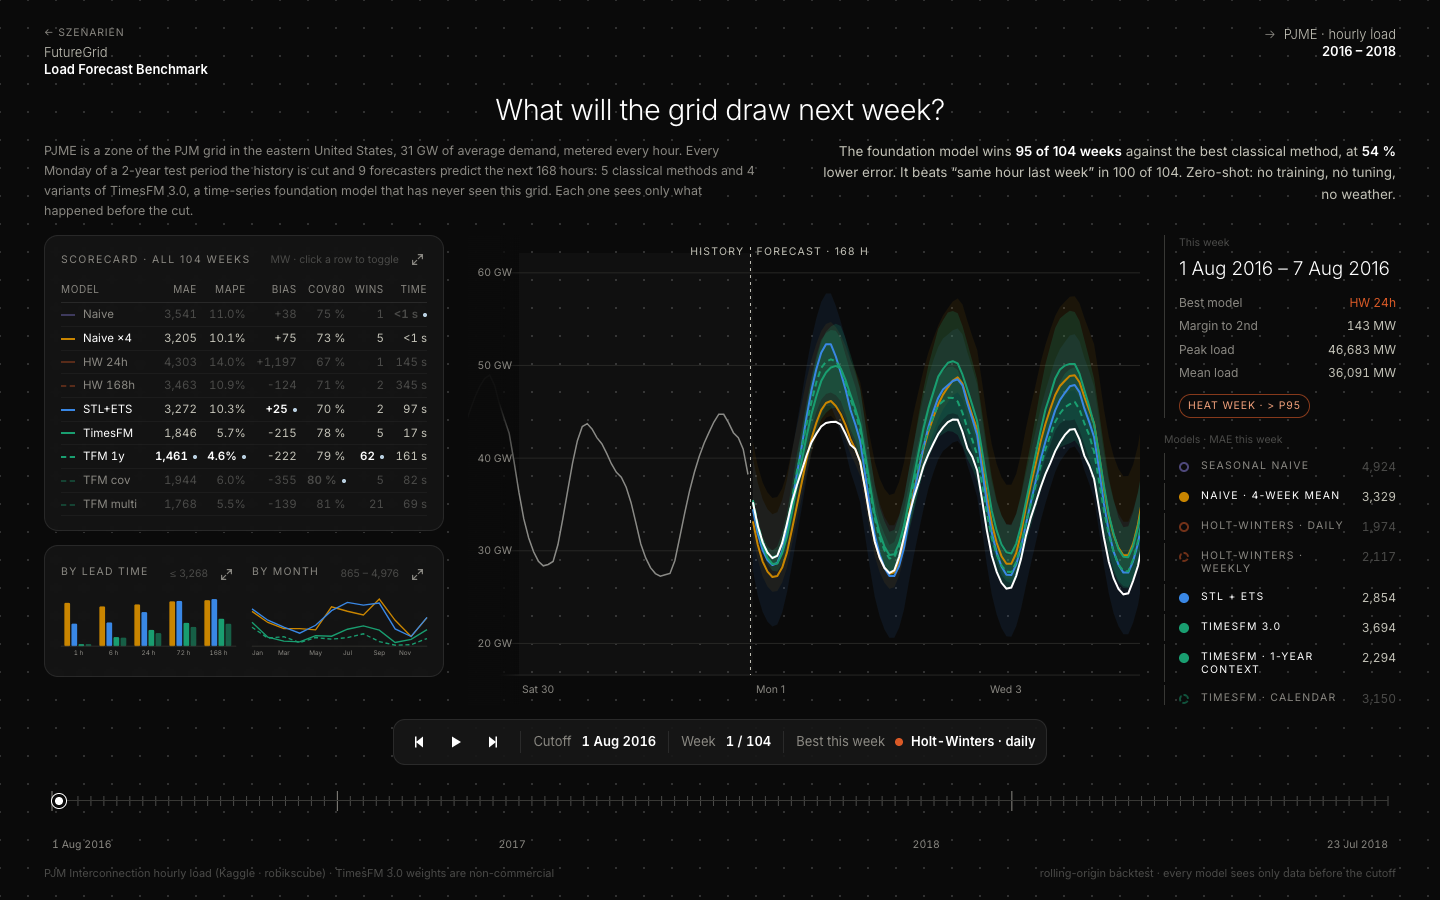
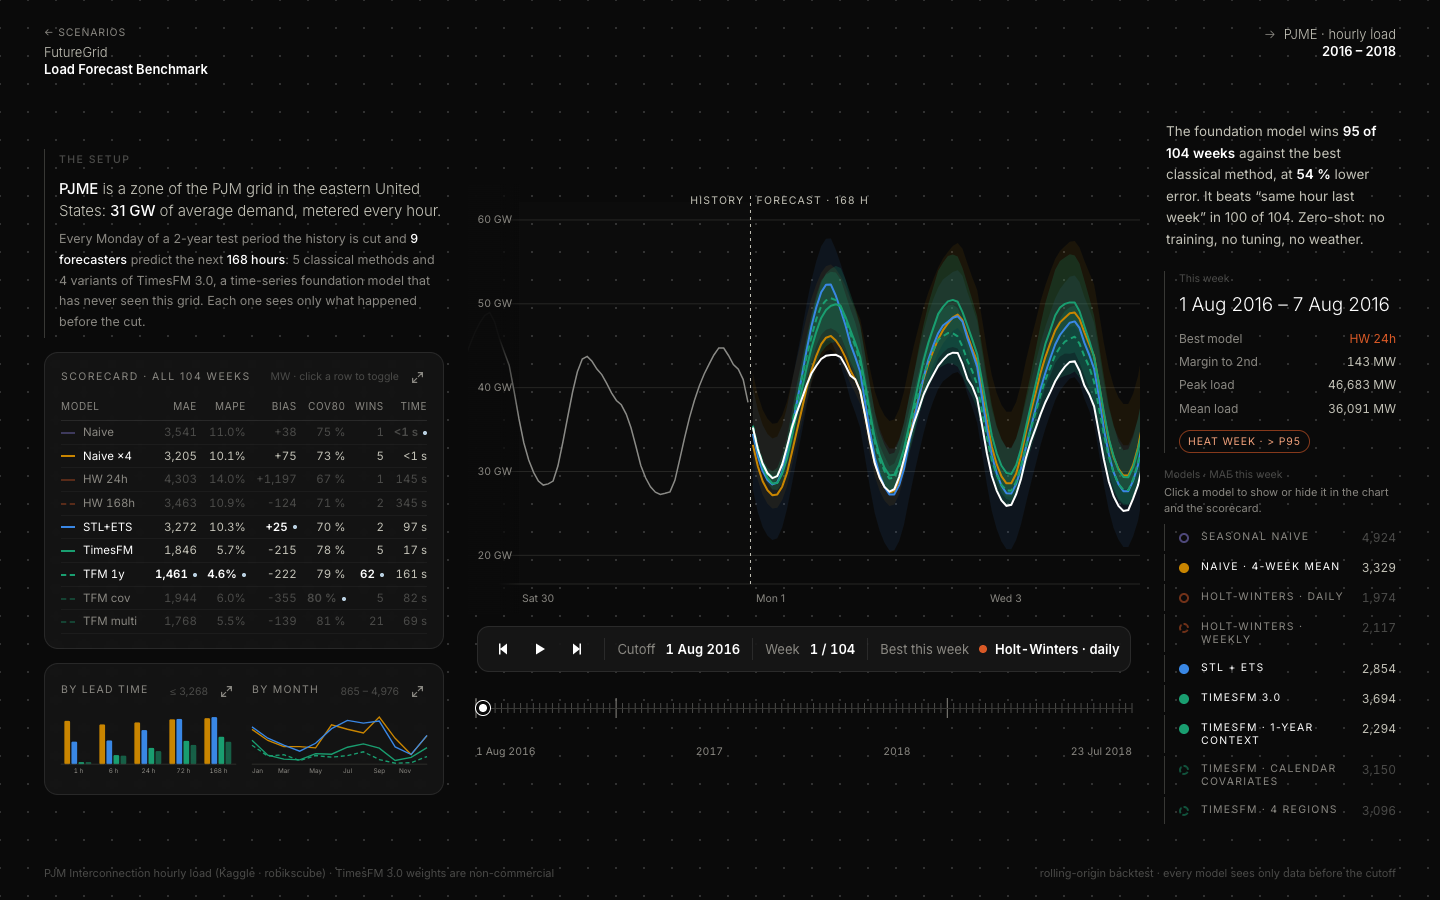
feat: update UI components and styles for improved layout and readability

diff --git a/src/strom/components/BigCharts.tsx b/src/strom/components/BigCharts.tsx
@@ -135,20 +135,86 @@ function BigLine({ series, xLabels, xTickEvery, hoverLabel, yLabel }: BigLinePro
   );
 }
 
-/** MAE for every lead hour 1..168, one line per visible model. */
+/** MAE at the reported lead times (1, 6, 24, 72, 168 h) as grouped bars - the big version of the
+ * mini chart, one bar per visible model and lead, value on top, legend at the right. */
 export function LeadChart({ data, visible }: { data: Backtest; visible: string[] }) {
+  const [hover, setHover] = useState<{ lead: number; model: string } | null>(null);
   const models = visible.filter((m) => data.byLead[m]);
-  const H = data.meta.horizon;
-  const series = models.map((m) => ({ name: m, values: data.byLead[m].slice(0, H) }));
-  const labels = Array.from({ length: H }, (_, i) => `${i + 1} h`);
+  const leads = data.meta.leadsReported;
+  const vals = leads.map((l) => models.map((m) => data.byLead[m][l - 1] ?? 0));
+  const max = Math.max(...vals.flat(), 1) * 1.12;
+  const y = (v: number) => PAD.top + innerH - (v / max) * innerH;
+  const groupW = innerW / leads.length;
+  const gap = 4;
+  const barW = Math.max(6, Math.min(34, (groupW * 0.72 - gap * (models.length - 1)) / models.length));
+  const groupInner = models.length * barW + (models.length - 1) * gap;
+  const yt = ticks(max);
+
   return (
-    <BigLine
-      series={series}
-      xLabels={labels}
-      xTickEvery={24}
-      hoverLabel={(i) => `Lead ${i + 1} h · day ${Math.floor(i / 24) + 1}`}
-      yLabel="MAE (MW) by lead hour"
-    />
+    <div className="bigChart">
+      <svg viewBox={`0 0 ${W} ${H}`} role="img" aria-label="MAE (MW) by lead time" onMouseLeave={() => setHover(null)}>
+        <g className="axis">
+          {yt.map((v) => (
+            <g key={v}>
+              <line x1={PAD.left} x2={PAD.left + innerW} y1={y(v)} y2={y(v)} />
+              <text x={PAD.left - 10} y={y(v) + 4} textAnchor="end">
+                {fmtMW(v)}
+              </text>
+            </g>
+          ))}
+          <line className="baseline" x1={PAD.left} x2={PAD.left + innerW} y1={PAD.top + innerH} y2={PAD.top + innerH} />
+          {leads.map((l, gi) => (
+            <text key={l} x={PAD.left + gi * groupW + groupW / 2} y={H - 16} textAnchor="middle">
+              {l < 24 ? `${l} h` : `${l} h · day ${l / 24}`}
+            </text>
+          ))}
+          <text x={PAD.left} y={PAD.top - 6} className="axisTitle">
+            MAE (MW) by lead time
+          </text>
+        </g>
+        {leads.map((l, gi) =>
+          models.map((m, mi) => {
+            const v = vals[gi][mi];
+            const st = styleOf(m);
+            const x0 = PAD.left + gi * groupW + (groupW - groupInner) / 2 + mi * (barW + gap);
+            const active = hover && hover.lead === l && hover.model === m;
+            return (
+              <g key={`${l}-${m}`} onMouseEnter={() => setHover({ lead: l, model: m })}>
+                <rect x={x0} y={y(v)} width={barW} height={PAD.top + innerH - y(v)} rx={3} fill={st.color} opacity={st.dash ? 0.55 : active ? 1 : 0.9} />
+                {(active || models.length <= 5) && (
+                  <text x={x0 + barW / 2} y={y(v) - 6} textAnchor="middle" className="barLabel" fill={st.color}>
+                    {fmtMW(v)}
+                  </text>
+                )}
+              </g>
+            );
+          }),
+        )}
+        {models.map((m, i) => {
+          const st = styleOf(m);
+          return (
+            <g key={m} transform={`translate(${PAD.left + innerW + 14}, ${PAD.top + 8 + i * 20})`}>
+              <rect x={0} y={-6} width={12} height={12} rx={2} fill={st.color} opacity={st.dash ? 0.55 : 1} />
+              <text x={18} y={4} className="endLabel" fill={st.color}>
+                {st.label}
+              </text>
+            </g>
+          );
+        })}
+      </svg>
+      {hover && (
+        <div className="tooltip" style={{ right: 20, top: 30 }}>
+          <div className="when">Lead {hover.lead} h</div>
+          <div className="line">
+            <span className="nm">
+              <i className="swatch" style={{ color: styleOf(hover.model).color }} />
+              {styleOf(hover.model).label}
+            </span>
+            <span>{fmtMW(data.byLead[hover.model][hover.lead - 1] ?? 0)} MW</span>
+          </div>
+        </div>
+      )}
+    </div>
   );
 }
 

diff --git a/src/strom/App.tsx b/src/strom/App.tsx
@@ -81,26 +81,20 @@ function Benchmark({ data }: { data: Backtest }) {
 
   return (
     <Frame region={`${data.meta.region} · hourly load`} range={years}>
-      <div className="headline">
-        <h1>{head.title}</h1>
-        <div className="headlineCols">
-          <p className="lead">{head.lead}</p>
-          <p className="verdict">{head.verdict}</p>
-        </div>
-      </div>
-
       <div className="main">
         <div className="stack">
+          <p className="lead">{head.lead}</p>
           <Scorecard data={data} models={models} visible={visible} onToggle={toggle} />
           <div className="panel">
             <MiniBars data={data} visible={visible} />
           </div>
         </div>
-        <Chart record={record} visible={visible} />
-        <WeekPanel data={data} record={record} models={models} visible={visible} onToggle={toggle} />
+        <div className="centerCol">
+          <Chart record={record} visible={visible} />
+          <BacktestSlider cutoffs={data.cutoffs} index={index} playing={playing} winner={winner} onChange={onChange} onPlay={onPlay} />
+        </div>
+        <WeekPanel data={data} record={record} models={models} visible={visible} onToggle={toggle} intro={head.verdict} />
       </div>
-
-      <BacktestSlider cutoffs={data.cutoffs} index={index} playing={playing} winner={winner} onChange={onChange} onPlay={onPlay} />
     </Frame>
   );
 }
@@ -121,11 +115,17 @@ function headline(
 
   const lead = (
     <>
-      {meta.region} is a zone of the PJM grid in the eastern United States, {fmtGW(meta.truthMean)} of average
-      demand, metered every hour. Every {weekdayName(first)} of a {years}-year test period the history is cut and{' '}
-      {models.length} forecasters predict the next {meta.horizon} hours: {classics.length} classical methods and{' '}
-      {tfms.length} variants of TimesFM 3.0, a time-series foundation model that has never seen this grid. Each one
-      sees only what happened before the cut.
+      <span className="leadKicker">The setup</span>
+      <span className="leadFirst">
+        <b>{meta.region}</b> is a zone of the PJM grid in the eastern United States: <b>{fmtGW(meta.truthMean)}</b> of
+        average demand, metered every hour.
+      </span>
+      <span className="leadRest">
+        Every {weekdayName(first)} of a {years}-year test period the history is cut and <b>{models.length} forecasters</b>{' '}
+        predict the next <b>{meta.horizon} hours</b>: {classics.length} classical methods and {tfms.length} variants of
+        TimesFM 3.0, a time-series foundation model that has never seen this grid. Each one sees only what happened
+        before the cut.
+      </span>
     </>
   );
 

diff --git a/src/strom/styles/global.css b/src/strom/styles/global.css
@@ -125,23 +125,57 @@ button {
   margin-top: 14px;
 }
 
-.headline .lead {
-  text-align: left;
+/* the two intro paragraphs sit in the side columns, next to the chart */
+.main .lead {
+  display: flex;
+  flex-direction: column;
+  gap: 8px;
   color: var(--muted);
   font-size: 12.5px;
-  line-height: 1.6;
+  line-height: 1.65;
+  padding: 2px 2px 6px 14px;
+  border-left: 1px solid var(--axis);
 }
 
-.headline .verdict {
-  text-align: right;
+.main .lead .leadKicker {
+  font-size: 10.5px;
+  font-weight: 500;
+  letter-spacing: 0.14em;
+  text-transform: uppercase;
+  color: var(--faint);
+  margin-bottom: 2px;
+}
+
+.main .lead .leadFirst {
+  color: var(--text-2);
+  font-size: 15px;
+  font-weight: 300;
+  line-height: 1.45;
+  letter-spacing: -0.005em;
+}
+
+.main .lead b {
+  color: var(--text);
+  font-weight: 500;
+}
+
+.main .verdict {
   color: var(--text-2);
   font-size: 13.5px;
   line-height: 1.6;
+  padding: 2px 2px 6px;
 }
 
-.headline .verdict b {
+.main .verdict b {
   color: var(--text);
   font-weight: 600;
+}
+
+.legendHint {
+  color: var(--muted);
+  font-size: 11px;
+  line-height: 1.45;
+  margin: 0 0 8px;
 }
 
 /* ---------- Main grid ---------- */
@@ -150,15 +184,31 @@ button {
   display: grid;
   grid-template-columns: 400px minmax(0, 1fr) 232px;
   gap: 24px;
-  align-items: stretch;
+  /* every column sits vertically centred in the free height, so the page reads as one balanced row */
+  align-items: center;
   min-height: 0;
 }
 
 .main > .stack,
 .main > .sideCol {
   min-height: 0;
+  max-height: 100%;
   overflow-y: auto;
   scrollbar-width: thin;
+}
+
+/* chart on top, the backtest timeline directly beneath it - the slider spans the chart, not the page */
+.centerCol {
+  display: flex;
+  flex-direction: column;
+  gap: 12px;
+  min-height: 0;
+  min-width: 0;
+}
+
+.centerCol > .chartWrap {
+  flex: none;
+  height: min(430px, 52vh);
 }
 
 @media (max-width: 1100px) {
@@ -929,4 +979,14 @@ button {
 .bigChart .endLabel {
   font-size: 12px;
   font-family: var(--font);
+}
+
+/* weekend shading in the load chart: a faint hint only */
+.weekendBand {
+  opacity: 0.35;
+}
+
+.bigChart .barLabel {
+  font-size: 11px;
+  font-variant-numeric: tabular-nums;
 }

diff --git a/src/hub/Hub.tsx b/src/hub/Hub.tsx
@@ -7,7 +7,7 @@ export default function Hub() {
       <header className="hubHead">
         <h1>Can a foundation model forecast from the history alone?</h1>
         <p>
-          Google <b>TimesFM 3.0</b>, zero-shot, no training — applied to three subjects and measured against the methods
+          Google <b>TimesFM 3.0</b>, zero-shot, no training, applied to three subjects and measured against the methods
           that are standard there. The answers differ. Pick a scenario:
         </p>
       </header>
@@ -19,7 +19,7 @@ export default function Hub() {
           <p className="q">23,000 quakes of M 5.5+ since 1965 and the tsunamis they triggered. TimesFM forecasts the rate per 5° cell ten years ahead.</p>
           <QuakeArt />
           <p className="verdict">
-            <b>A draw.</b> 49 of 50 real quakes fell into a forecast cell — but the cell's own climatology hits just as well. The model adds level and trend, not new places.
+            <b>A draw.</b> 49 of 50 real quakes fell into a forecast cell, but the cell's own climatology hits just as well. The model adds level and trend, not new places.
           </p>
           <span className="open">Open the 3D globe <i>→</i><small>USGS · NOAA · 1965–2016 · forecast 2017–2026</small></span>
         </a>
@@ -41,7 +41,7 @@ export default function Hub() {
           <p className="q">Hourly temperature for any city in the world, computed live, against persistence, climatology and a real weather model.</p>
           <WeatherArt />
           <p className="verdict">
-            <b>The weather model wins.</b> On day 1 TimesFM beats every trivial method; from day 3 it is down at climatology. The weather model is 2–3× more accurate — it sees the front, the time series does not.
+            <b>The weather model wins.</b> On day 1 TimesFM beats every trivial method; from day 3 it is down at climatology. The weather model is 2–3× more accurate: it sees the front, the time series does not.
           </p>
           <span className="open">Open the forecast <i>→</i><small>Open-Meteo · ERA5 · 7 cities · 1,281 cutoffs</small></span>
         </a>

diff --git a/src/strom/components/WeekPanel.tsx b/src/strom/components/WeekPanel.tsx
@@ -9,10 +9,12 @@ interface Props {
   models: string[];
   visible: string[];
   onToggle: (m: string) => void;
+  /** the verdict sentence of the headline, shown at the top of the column */
+  intro?: React.ReactNode;
 }
 
-/** Right column: legend with per-week MAE (click to toggle) and the week's context flags. */
-export default function WeekPanel({ data, record, models, visible, onToggle }: Props) {
+/** Right column: verdict, the week's context flags, and the legend with per-week MAE (click to toggle). */
+export default function WeekPanel({ data, record, models, visible, onToggle, intro }: Props) {
   const cutoff = parseLocal(record.cutoff);
   const end = addHours(cutoff, data.meta.horizon - 1);
   const holidays = holidaysInWindow(cutoff, data.meta.horizon);
@@ -24,6 +26,7 @@ export default function WeekPanel({ data, record, models, visible, onToggle }: P
 
   return (
     <div className="stack sideCol">
+      {intro && <p className="verdict">{intro}</p>}
       <div className="week">
         <div className="panelTitle" style={{ marginBottom: 8 }}>
           <span>This week</span>
@@ -61,9 +64,10 @@ export default function WeekPanel({ data, record, models, visible, onToggle }: P
       </div>
 
       <div>
-        <div className="panelTitle" style={{ marginBottom: 6 }}>
+        <div className="panelTitle" style={{ marginBottom: 2 }}>
           <span>Models · MAE this week</span>
         </div>
+        <div className="legendHint">Click a model to show or hide it in the chart and the scorecard.</div>
         <div className="legend">
           {models.map((m) => {
             const st = styleOf(m);

diff --git a/src/strom/components/MiniBars.tsx b/src/strom/components/MiniBars.tsx
@@ -108,7 +108,7 @@ export default function MiniBars({ data, visible }: Props) {
       {open === 'lead' && (
         <Modal
           title="MAE by lead time"
-          subtitle={`Mean absolute error for every forecast hour 1 … ${data.meta.horizon} over all ${data.meta.cutoffs} weeks, visible models only. Vertical grid = one day.`}
+          subtitle={`Mean absolute error at lead ${data.meta.leadsReported.join(', ')} h over all ${data.meta.cutoffs} weeks, visible models only.`}
           onClose={() => setOpen(null)}
           wide
         >

diff --git a/src/hub/hub.css b/src/hub/hub.css
@@ -199,7 +199,7 @@ body {
 .tile.weather {
   background: #232730;
   color: #eef1f6;
-  box-shadow: 10px 10px 24px #121419, -8px -8px 20px #2b303b;
+  border: 1px solid rgba(255, 255, 255, 0.08);
 }
 
 .tile.weather .no,
